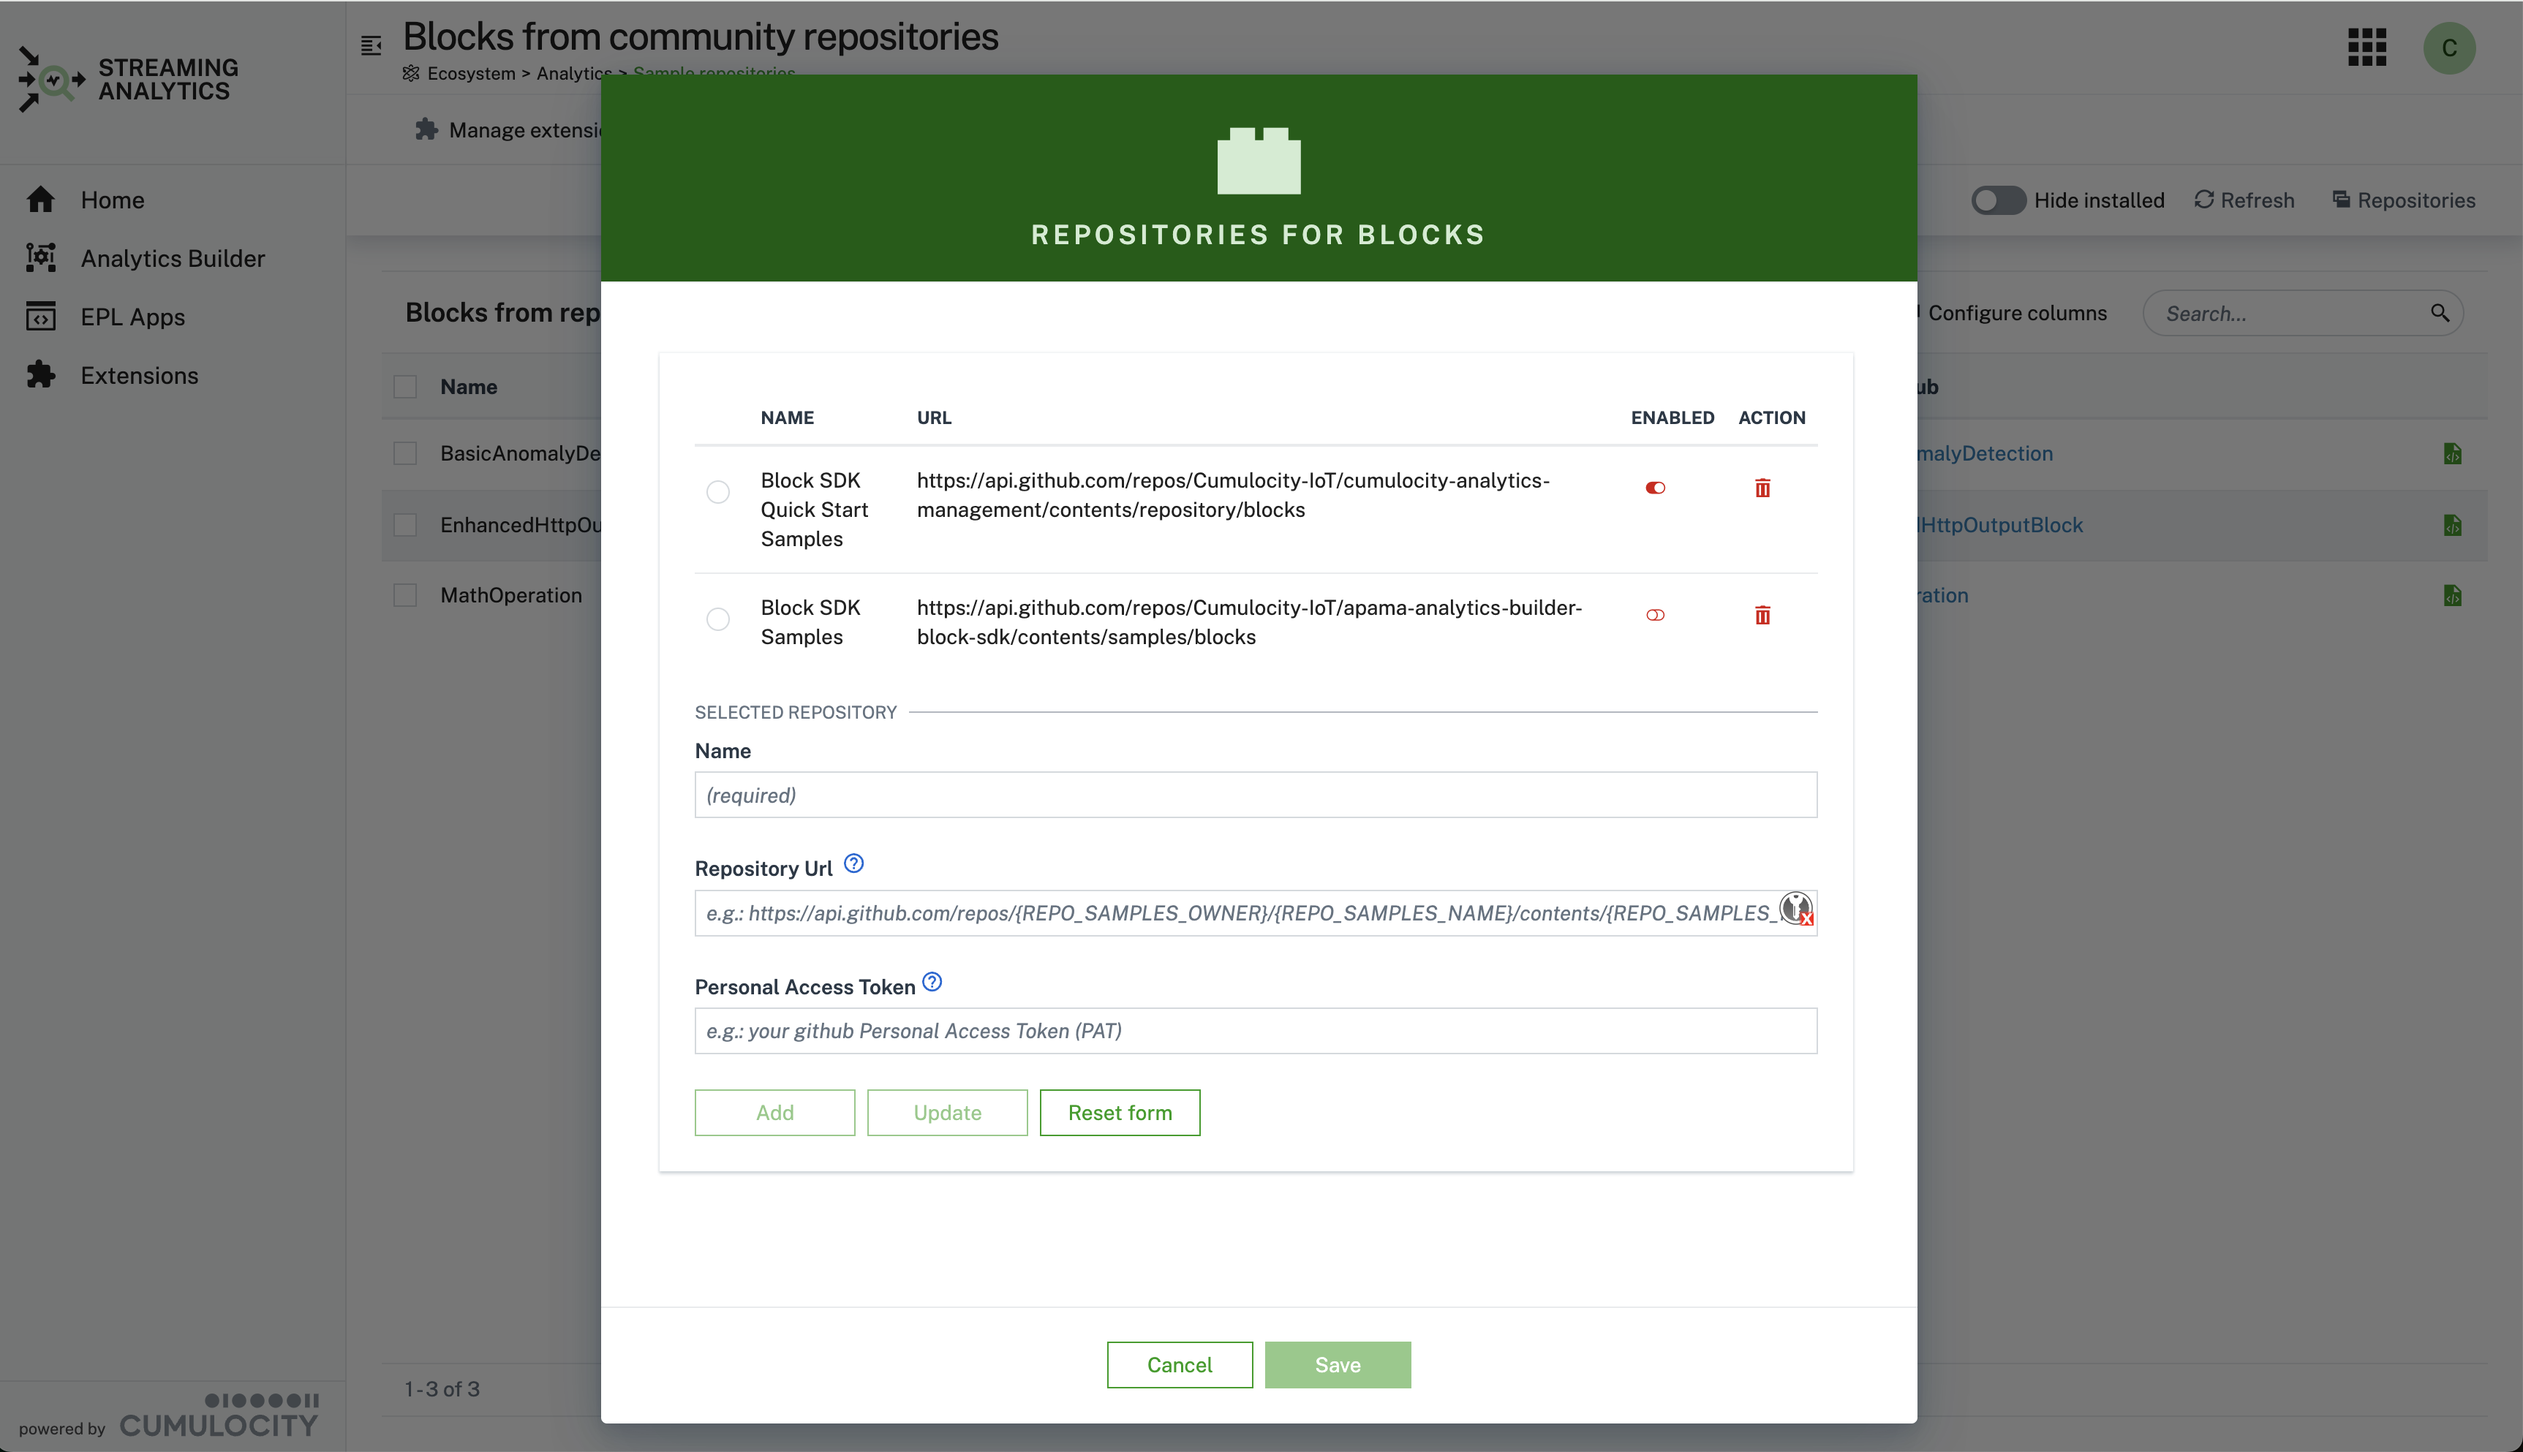
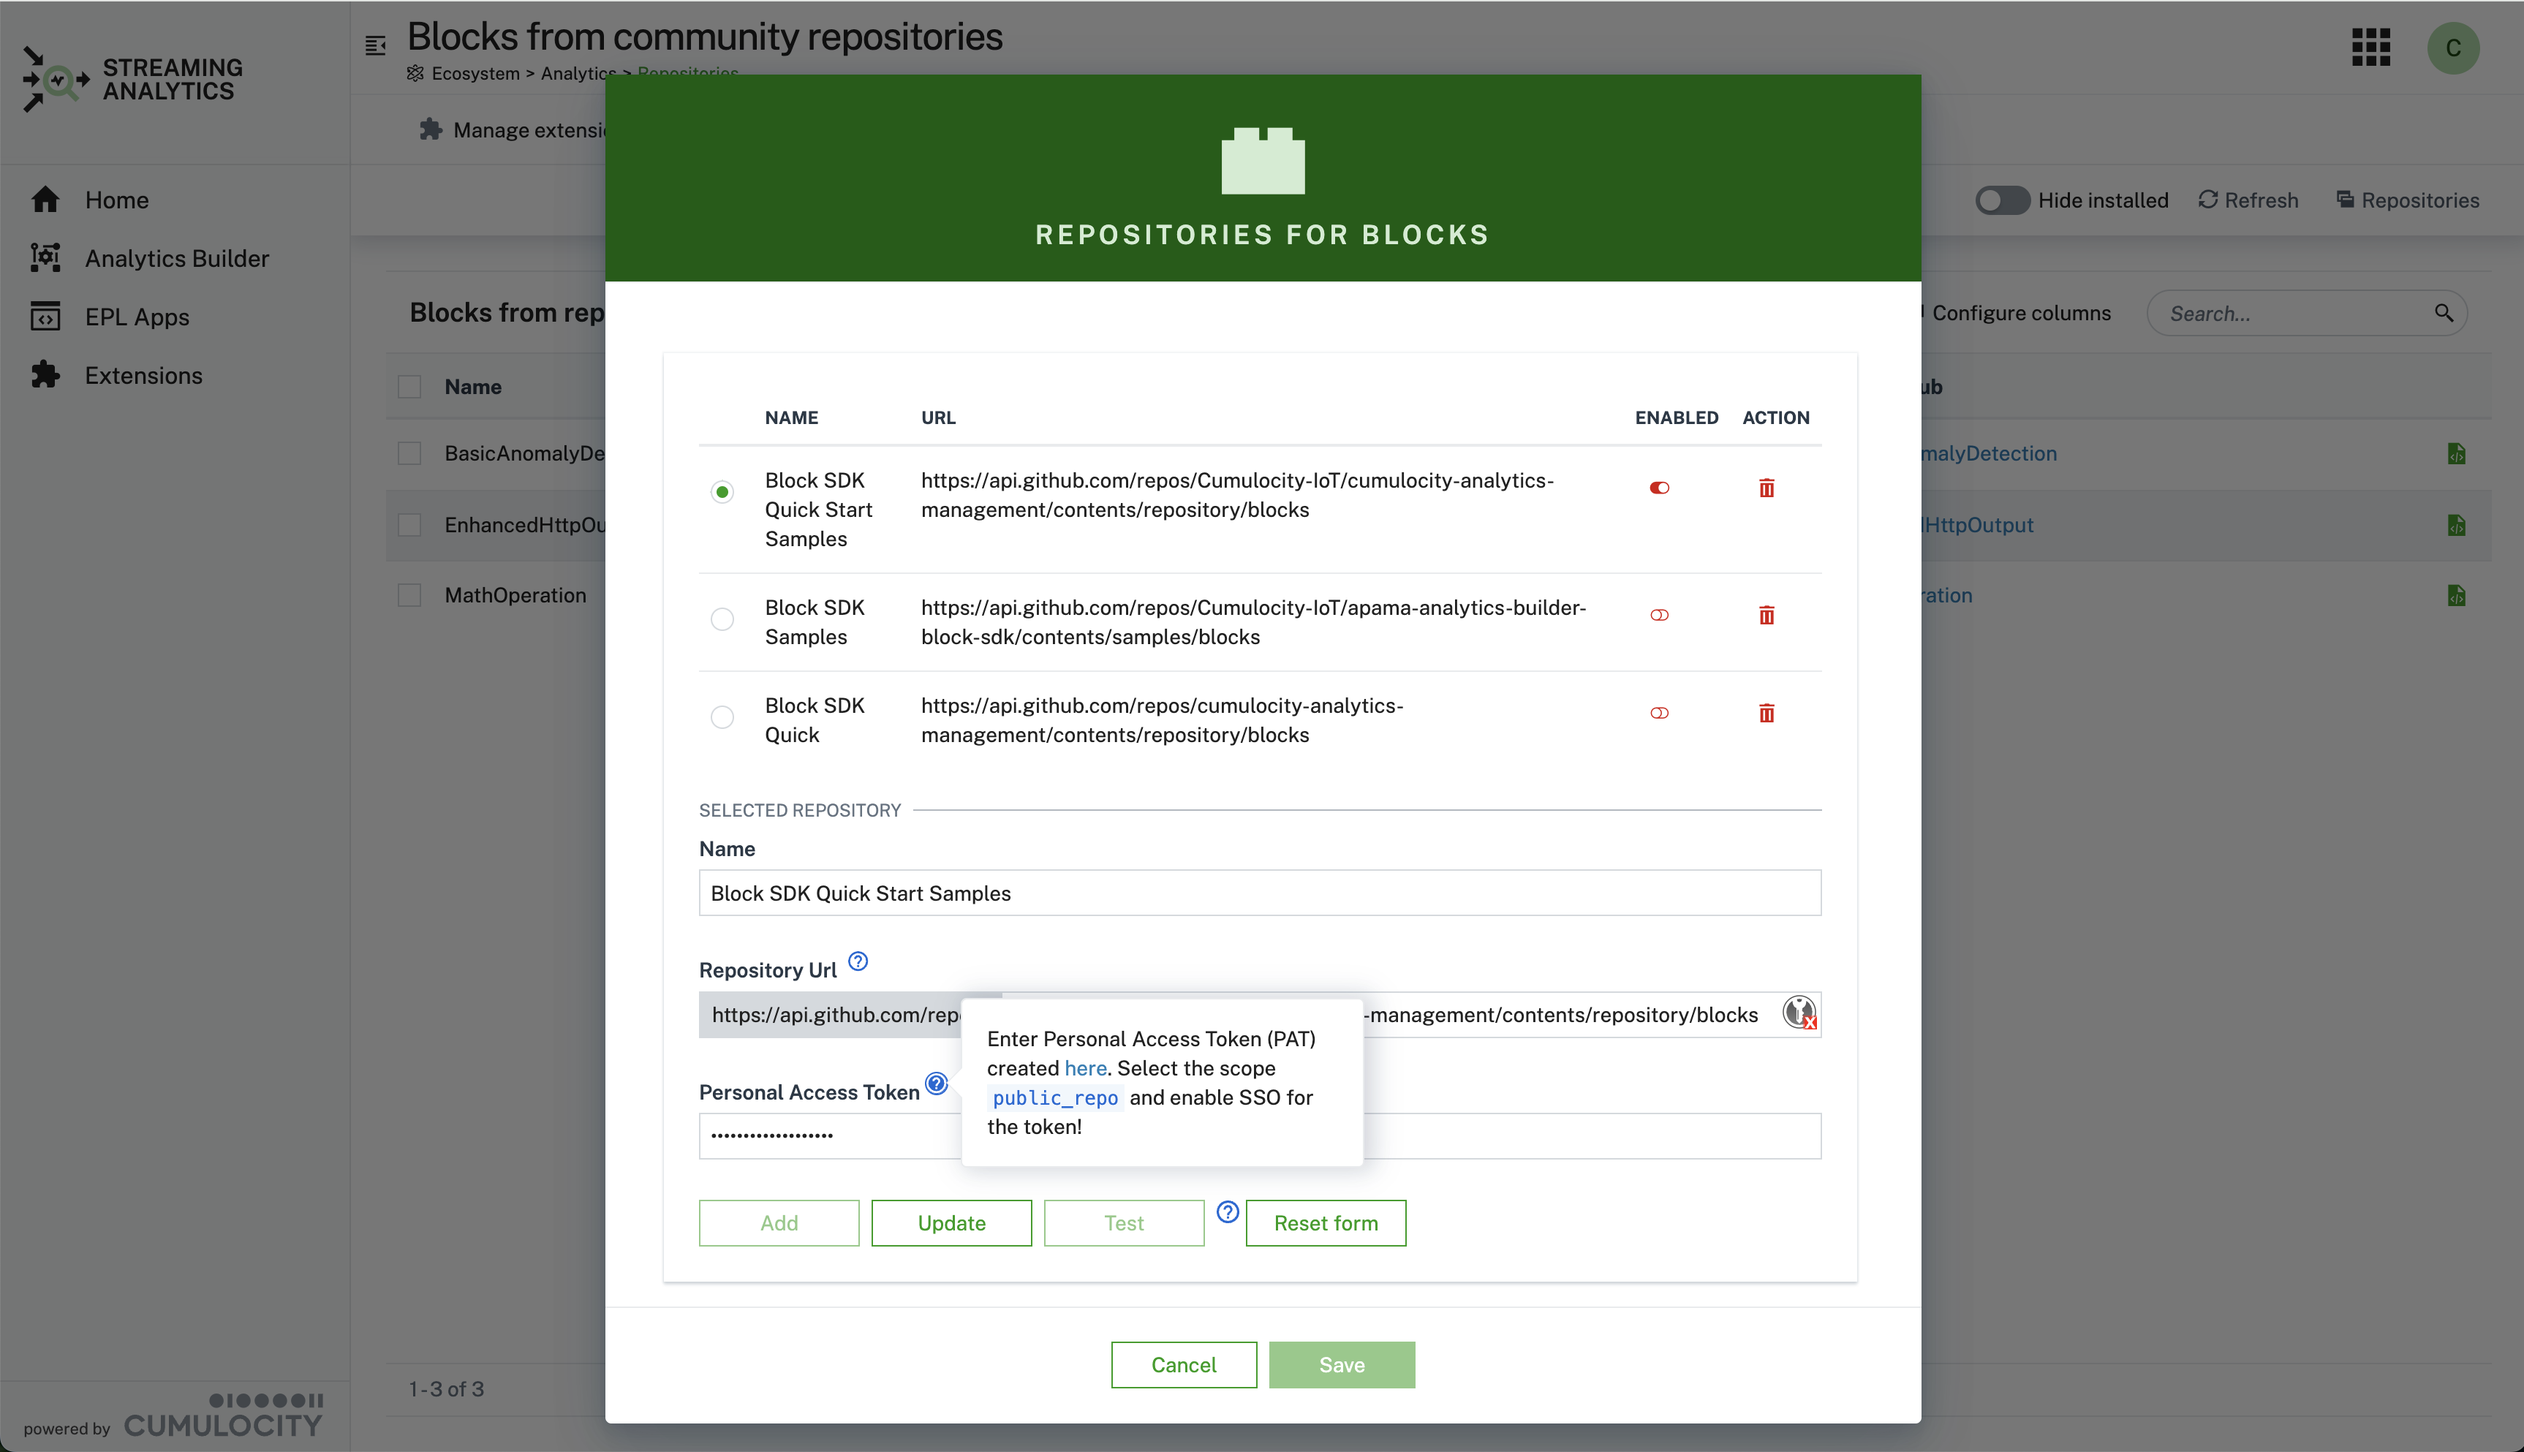
update popup text

diff --git a/analytics-ui/src/repository/repository/repositories-modal.component.ts b/analytics-ui/src/repository/repository/repositories-modal.component.ts
@@ -24,7 +24,7 @@ export class RepositoriesModalComponent implements OnInit {
   selectedRepositoryIndex: number = -1;
   saveRequired: boolean = false;
   labels: ModalLabels = { ok: 'Save', cancel: 'Cancel' };
-  popup = `Enter Personal Access Token (PAT) created <a href="https://github.com/settings/tokens/new" target="_blank">here</a>`;
+  popup = `Enter Personal Access Token (PAT) created <a href="https://github.com/settings/tokens/new" target="_blank">here</a>. Select the scope <code>public_repo</code> and enable SSO for the token!`;
   static readonly GITHUB_API = 'https://api.github.com/repos/';
   DUMMY_ACCESS_TOKEN = "_DUMMY_ACCESS_CODE_";
 
